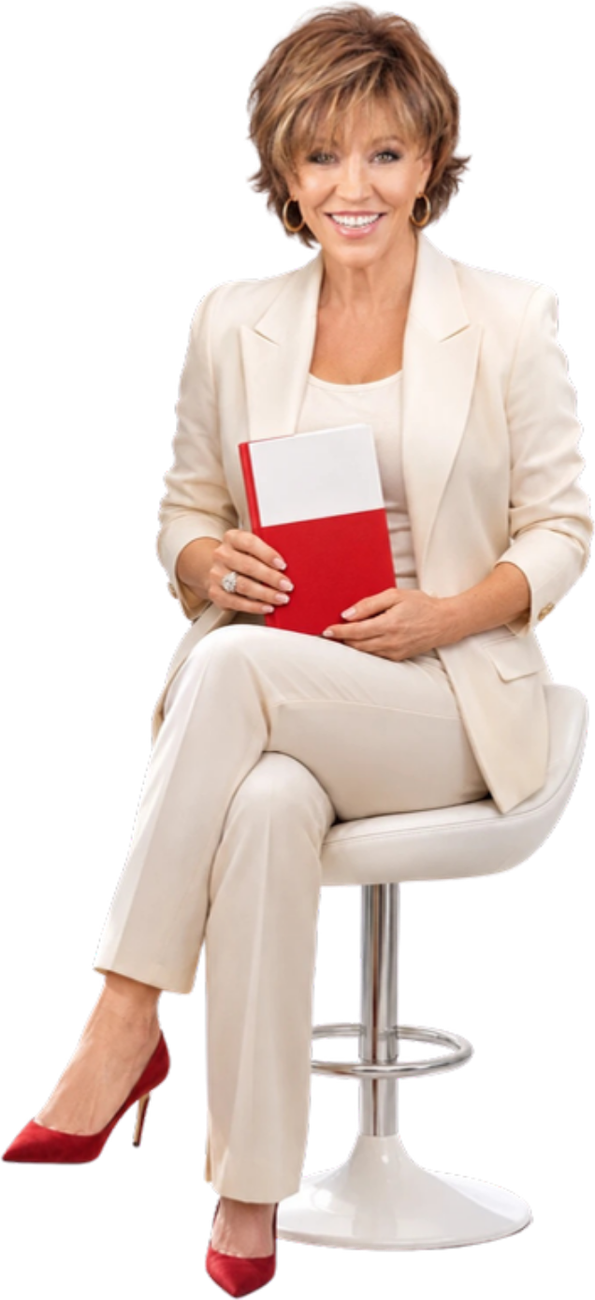
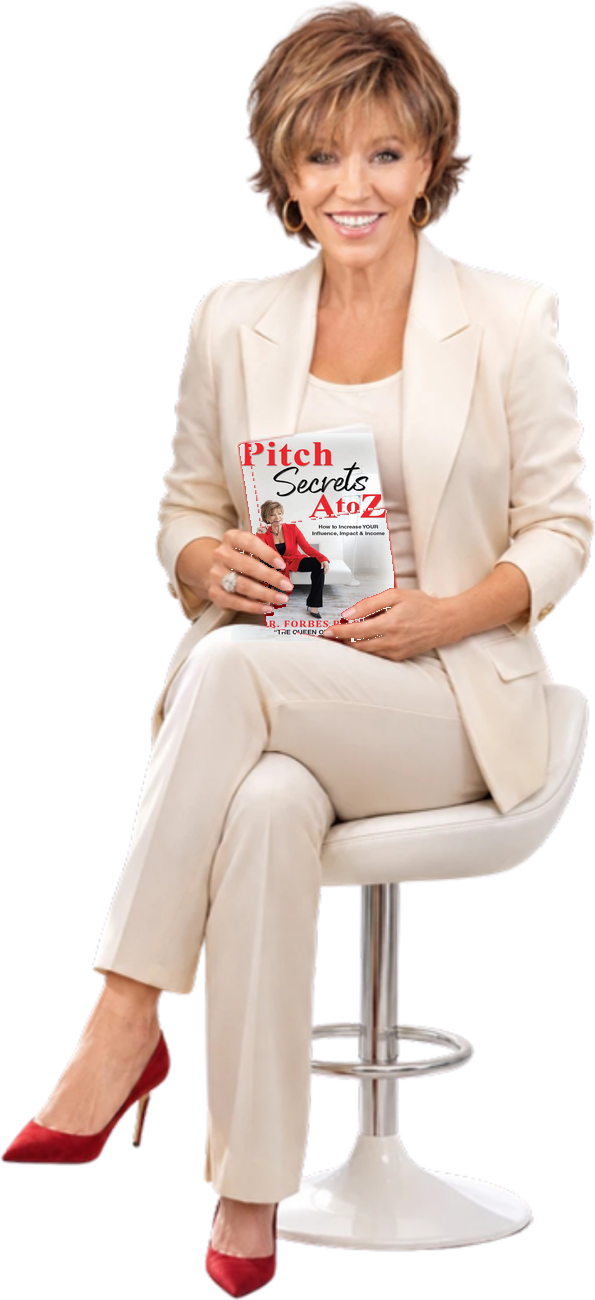
Speaker page: Forbes holds the real Pitch Secrets cover in the author photo; pointing photo back in the outcomes ring (sharpened 2x)

Changed region(s): [[0.3933, 0.3385, 0.6655, 0.4923]]

diff --git a/docs/speak.html b/docs/speak.html
@@ -5,7 +5,7 @@
 <meta name="viewport" content="width=device-width, initial-scale=1">
 <title>Forbes Riley | Keynote Speaker &amp; The Queen of Pitch</title>
 <meta name="description" content="Book Dr. Forbes Riley, the $2.5 billion host, 2X TEDx speaker and creator of SpinGym. Keynotes that leave your audience with a skill, not a feeling.">
-<link rel="icon" type="image/png" href="img/favicon.png?v=277112">
+<link rel="icon" type="image/png" href="img/favicon.png?v=277533">
 <link rel="preconnect" href="https://fonts.googleapis.com">
 <link rel="preconnect" href="https://fonts.gstatic.com" crossorigin>
 <link href="https://fonts.googleapis.com/css2?family=Poppins:ital,wght@0,300;0,400;0,500;0,600;0,700;0,800;1,400&family=Allura&display=swap" rel="stylesheet">
@@ -52,7 +52,7 @@ h1,h2,h3{font-family:var(--display);font-weight:800;letter-spacing:-.01em;margin
 .cut{position:relative;display:block;filter:drop-shadow(0 30px 40px rgba(0,0,0,.55));will-change:transform}
 .glow{position:absolute;inset:auto;border-radius:50%;pointer-events:none;filter:blur(30px);opacity:.7;aspect-ratio:1;height:auto!important}
 .glow.gold{background:radial-gradient(circle,rgba(232,217,160,.55),rgba(201,154,58,.25) 45%,transparent 70%)}
-.dust{position:absolute;pointer-events:none;background:url(img/cut/gold-dust.png?v=277112) center/contain no-repeat;opacity:.9;mix-blend-mode:screen}
+.dust{position:absolute;pointer-events:none;background:url(img/cut/gold-dust.png?v=277533) center/contain no-repeat;opacity:.9;mix-blend-mode:screen}
 .ring{position:absolute;border:1.5px solid rgba(232,217,160,.45);border-radius:50%;pointer-events:none;animation:drift 14s ease-in-out infinite}
 .ring.b{animation-duration:19s;animation-direction:reverse;border-style:dashed}
 @keyframes drift{0%,100%{transform:translate(0,0) rotate(0)}50%{transform:translate(12px,-18px) rotate(40deg)}}
@@ -136,7 +136,7 @@ h1,h2,h3{font-family:var(--display);font-weight:800;letter-spacing:-.01em;margin
 .seen ul{list-style:none;margin:0;padding:0;display:flex;gap:28px;flex-wrap:wrap;justify-content:center}
 .seen li{font-family:var(--display);font-weight:700;font-size:15px;letter-spacing:.06em;color:#2a1a28;opacity:.6}
 .cta{background:linear-gradient(135deg,#1a0c2e,#6b1f52 60%,#8a2a68);padding:56px 0;position:relative;overflow:hidden}
-.cta:before{content:"";position:absolute;inset:0;background:url(img/cut/gold-dust.png?v=277112) right center/700px no-repeat;opacity:.5;mix-blend-mode:screen}
+.cta:before{content:"";position:absolute;inset:0;background:url(img/cut/gold-dust.png?v=277533) right center/700px no-repeat;opacity:.5;mix-blend-mode:screen}
 .ctabox{position:relative;display:grid;grid-template-columns:1.3fr .7fr;gap:40px;align-items:center;border:1px solid rgba(240,213,122,.35);border-radius:16px;padding:40px 46px;background:rgba(6,6,14,.35);backdrop-filter:blur(6px)}
 .ctabox h2{font-size:clamp(26px,3.2vw,40px);line-height:1.1;color:#fff;margin:8px 0 12px;text-transform:none}
 .ctabox p{margin:0;color:#e9dff0;font-size:17px}
@@ -258,7 +258,7 @@ h1,h2,h3{font-family:var(--display);font-weight:800;letter-spacing:-.01em;margin
 .arc svg{position:absolute;inset:0;width:100%;height:100%;z-index:1;pointer-events:none}
 .arc svg .arcpath{fill:none;stroke:#2a0f2a;stroke-width:3}
 .arc .arcsplash{position:absolute;left:50%;bottom:-120px;width:720px;max-width:none;transform:translateX(-50%);z-index:1;opacity:.75;pointer-events:none}
-.arc .cut{position:absolute;left:50%;bottom:-10px;transform:translateX(-50%);height:470px;width:auto;max-width:100%;object-fit:contain;object-position:bottom;z-index:2;filter:drop-shadow(0 20px 30px rgba(0,0,0,.2))}
+.arc .cut{position:absolute;left:50%;bottom:0;transform:translateX(-50%);height:440px;width:auto;max-width:100%;object-fit:contain;object-position:bottom;z-index:2;filter:drop-shadow(0 20px 30px rgba(0,0,0,.2))}
 .oc{position:absolute;width:150px;height:150px;margin:-75px 0 0 -75px;border-radius:50%;border:12px solid #f3eadc;background:#3b1030;color:#e9dcc4;display:grid;place-items:center;cursor:pointer;z-index:3;padding:0;transition:background .35s,transform .35s,border-color .35s,box-shadow .35s}
 .oc svg{width:66px;height:66px;fill:none;stroke:currentColor;stroke-width:2.2;stroke-linecap:round;stroke-linejoin:round;transition:transform .35s}
 .oc:hover,.oc.on{background:linear-gradient(135deg,#f6e3a1,#d4a73c);color:#2a0f2a;border-color:#fff3d6;transform:scale(1.06);box-shadow:0 18px 40px rgba(212,167,60,.35)}
@@ -279,7 +279,7 @@ h1,h2,h3{font-family:var(--display);font-weight:800;letter-spacing:-.01em;margin
 
 /* formula */
 .framework{background:linear-gradient(180deg,#07061a,#6b1f52);position:relative;overflow:hidden}
-.framework:before{content:"";position:absolute;inset:0;background:url(img/h-stage-purple.jpg?v=277112) center/cover;opacity:.14;filter:grayscale(1)}
+.framework:before{content:"";position:absolute;inset:0;background:url(img/h-stage-purple.jpg?v=277533) center/cover;opacity:.14;filter:grayscale(1)}
 .framework .wrap{position:relative}
 .pillars{display:grid;grid-template-columns:repeat(3,1fr);gap:26px;margin:0 auto;max-width:1000px}
 .pillar{position:relative;text-align:center;padding:48px 26px 36px;border:1px solid rgba(232,217,160,.25);border-radius:var(--r);background:rgba(11,11,11,.72);overflow:hidden;cursor:pointer;transition:border-color .4s,transform .4s}
@@ -530,11 +530,11 @@ footer a{color:var(--gold);text-decoration:none}
 </head>
 <body>
 <div id="progress"></div>
-<div class="grain" aria-hidden="true"></div><div class="pill" id="pill"><img src="img/helms-headshot.jpg?v=277112" alt=""><span class="t">Bring Forbes to your stage</span><a class="btn btn-gold" href="#book">Book Forbes</a></div>
+<div class="grain" aria-hidden="true"></div><div class="pill" id="pill"><img src="img/helms-headshot.jpg?v=277533" alt=""><span class="t">Bring Forbes to your stage</span><a class="btn btn-gold" href="#book">Book Forbes</a></div>
 <canvas id="confetti"></canvas>
 <nav class="nav" id="nav">
   <div class="wrap">
-    <a href="#top"><img src="img/logo-signature-gold.png?v=277112" alt="Forbes Riley"></a>
+    <a href="#top"><img src="img/logo-signature-gold.png?v=277533" alt="Forbes Riley"></a>
     <ul>
       <li><a href="#story">About</a></li>
       <li><a href="#speaking">Speaking</a></li>
@@ -563,7 +563,7 @@ footer a{color:var(--gold);text-decoration:none}
     </div>
     <div class="stage" data-parallax="0.08">
       <div class="glow gold"></div>
-      <img class="cut" src="img/cut/az-arms-hd.png?v=277112" alt="Forbes Riley, arms open">
+      <img class="cut" src="img/cut/az-arms-hd.png?v=277533" alt="Forbes Riley, arms open">
     </div>
   </div>
   <div class="floor"></div>
@@ -588,7 +588,7 @@ footer a{color:var(--gold);text-decoration:none}
 <section class="section reel dark" id="reel">
   <div class="wrap grid">
     <div class="hs rv rv-l" data-parallax="0.04">
-      <img src="img/helms-headshot.jpg?v=277112" alt="Forbes Riley headshot">
+      <img src="img/helms-headshot.jpg?v=277533" alt="Forbes Riley headshot">
     </div>
     <div>
       <p class="eyebrow rv">Meet Forbes Riley</p>
@@ -644,7 +644,7 @@ footer a{color:var(--gold);text-decoration:none}
 <section class="split">
   <div class="wrap grid">
     <div class="fig rv rv-l" data-parallax="0.06">
-      <img class="cut" src="img/cut/black-crossed.png?v=277112" alt="Forbes Riley">
+      <img class="cut" src="img/cut/black-crossed.png?v=277533" alt="Forbes Riley">
     </div>
     <div>
       <p class="rv">It's not something I read in a book. It's something I lived, on live television, with a clock running and a sales number on the screen. It became the foundation of everything I do: every stage, every boardroom, every founder who sits across from me carrying the exact fear I once carried.</p>
@@ -658,23 +658,23 @@ footer a{color:var(--gold);text-decoration:none}
 
 <section class="gallery" aria-label="Forbes on stage">
   <div class="track" id="gal">
-    <figure><img src="img/hero-stage-blue.jpg?v=277112" alt=""><figcaption>Keynote</figcaption></figure>
-    <figure><img src="img/event-ffl-stage.jpg?v=277112" alt=""><figcaption>Forbes Factor Live</figcaption></figure>
-    <figure><img src="img/h-10x-stage.jpg?v=277112" alt=""><figcaption>10X Growth Con</figcaption></figure>
-    <figure><img src="img/event-audience.jpg?v=277112" alt=""><figcaption>Live audience</figcaption></figure>
-    <figure><img src="img/friends-les-brown.jpg?v=277112" alt=""><figcaption>With Les Brown</figcaption></figure>
-    <figure><img src="img/h-stage-purple.jpg?v=277112" alt=""><figcaption>On stage</figcaption></figure>
-    <figure><img src="img/event-garden-crowd.jpg?v=277112" alt=""><figcaption>Private event</figcaption></figure>
-    <figure><img src="img/friends-kevin-harrington-panel.jpg?v=277112" alt=""><figcaption>Panel with Kevin Harrington</figcaption></figure>
-    <figure><img src="img/spingym-hsn-set.jpg?v=277112" alt=""><figcaption>Live on HSN</figcaption></figure>
-    <figure><img src="img/event-speaking-hand.jpg?v=277112" alt=""><figcaption>Speaking</figcaption></figure>
-    <figure><img src="img/friends-george-foreman.jpg?v=277112" alt=""><figcaption>With George Foreman</figcaption></figure>
-    <figure><img src="img/h-redcarpet.jpg?v=277112" alt=""><figcaption>Red carpet</figcaption></figure>
+    <figure><img src="img/hero-stage-blue.jpg?v=277533" alt=""><figcaption>Keynote</figcaption></figure>
+    <figure><img src="img/event-ffl-stage.jpg?v=277533" alt=""><figcaption>Forbes Factor Live</figcaption></figure>
+    <figure><img src="img/h-10x-stage.jpg?v=277533" alt=""><figcaption>10X Growth Con</figcaption></figure>
+    <figure><img src="img/event-audience.jpg?v=277533" alt=""><figcaption>Live audience</figcaption></figure>
+    <figure><img src="img/friends-les-brown.jpg?v=277533" alt=""><figcaption>With Les Brown</figcaption></figure>
+    <figure><img src="img/h-stage-purple.jpg?v=277533" alt=""><figcaption>On stage</figcaption></figure>
+    <figure><img src="img/event-garden-crowd.jpg?v=277533" alt=""><figcaption>Private event</figcaption></figure>
+    <figure><img src="img/friends-kevin-harrington-panel.jpg?v=277533" alt=""><figcaption>Panel with Kevin Harrington</figcaption></figure>
+    <figure><img src="img/spingym-hsn-set.jpg?v=277533" alt=""><figcaption>Live on HSN</figcaption></figure>
+    <figure><img src="img/event-speaking-hand.jpg?v=277533" alt=""><figcaption>Speaking</figcaption></figure>
+    <figure><img src="img/friends-george-foreman.jpg?v=277533" alt=""><figcaption>With George Foreman</figcaption></figure>
+    <figure><img src="img/h-redcarpet.jpg?v=277533" alt=""><figcaption>Red carpet</figcaption></figure>
   </div>
 </section>
 
 <section class="section talks dark" id="speaking">
-  <img class="peek" src="img/cut/black-crossed.png?v=277112" alt="">
+  <img class="peek" src="img/cut/black-crossed.png?v=277533" alt="">
   <div class="wrap">
     <div class="section-head">
       <p class="eyebrow rv">Keynotes</p>
@@ -715,7 +715,7 @@ footer a{color:var(--gold);text-decoration:none}
       <svg viewBox="0 0 1180 800" preserveAspectRatio="none"><path class="arcpath" d="M330 500 C 350 330, 440 160, 590 160 C 740 160, 830 330, 850 500"/></svg>
       <button class="oc oc1" data-i="0" style="left:330.0px;top:500.0px" aria-label="Outcome 1: A 7-second hook"><svg viewBox="0 0 64 64"><circle cx="32" cy="32" r="22"/><circle cx="32" cy="32" r="12"/><circle cx="32" cy="32" r="3"/><path d="M32 4v8M32 52v8M4 32h8M52 32h8"/></svg></button><button class="oc oc2" data-i="1" style="left:411.2px;top:266.2px" aria-label="Outcome 2: Their WHY in one sentence"><svg viewBox="0 0 64 64"><path d="M12 14h40a4 4 0 0 1 4 4v22a4 4 0 0 1-4 4H30l-12 10V44h-6a4 4 0 0 1-4-4V18a4 4 0 0 1 4-4z"/><path d="M32 22v10M32 36v2"/></svg></button><button class="oc oc3" data-i="2" style="left:590.0px;top:160.0px" aria-label="Outcome 3: Confidence as posture"><svg viewBox="0 0 64 64"><circle cx="32" cy="13" r="7"/><path d="M14 44c0-14 36-14 36 0"/><path d="M32 24v14"/><path d="M20 60c2-10 22-10 24 0"/></svg></button><button class="oc oc4" data-i="3" style="left:768.8px;top:266.2px" aria-label="Outcome 4: No more sounding salesy"><svg viewBox="0 0 64 64"><path d="M8 40l10-10 8 8 10-10 8 8 12-12"/><path d="M44 24h12v12"/><path d="M6 56h52"/></svg></button><button class="oc oc5" data-i="4" style="left:850.0px;top:500.0px" aria-label="Outcome 5: Reps before they leave"><svg viewBox="0 0 64 64"><path d="M14 26a18 18 0 0 1 32-8l6 6"/><path d="M52 12v12H40"/><path d="M50 38a18 18 0 0 1-32 8l-6-6"/><path d="M12 52V40h12"/></svg></button>
       <div class="ot ot1" data-i="0"><div class="k">Outcome 1</div><p><b>A 7-second hook</b> Every person leaves with an opening line they can say tonight, built in the room with Forbes coaching them live. Not in a workbook they never open.</p><a class="bk" href="#book">Book this for my room</a></div><div class="ot ot2" data-i="1"><div class="k">Outcome 2</div><p><b>Their WHY in one sentence</b> Nobody buys the product. They buy the reason. Forbes gets each person to say theirs out loud and does not move on until it lands.</p><a class="bk" href="#book">Book this for my room</a></div><div class="ot ot3" data-i="2"><div class="k">Outcome 3</div><p><b>Confidence as posture</b> Feet. Shoulders. Breath. Then speak. Posture first, feeling second. Confidence you can do on purpose, even on a screen.</p><a class="bk" href="#book">Book this for my room</a></div><div class="ot ot4" data-i="3"><div class="k">Outcome 4</div><p><b>No more sounding salesy</b> The exact shift from pushing to inviting. Your people stop apologising for the ask and start enrolling.</p><a class="bk" href="#book">Book this for my room</a></div><div class="ot ot5" data-i="4"><div class="k">Outcome 5</div><p><b>Reps before they leave</b> A pitch is a performance. The room rehearses it out loud, live, with coaching, so it belongs to them before the doors open.</p><a class="bk" href="#book">Book this for my room</a></div>
-      <img class="cut rv rv-s d2" src="img/cut/emerald-top.png?v=277112" alt="Forbes Riley, arms open">
+      <img class="cut rv rv-s d2" src="img/cut/pointing-2x.png?v=277533" alt="Forbes Riley pointing up">
     </div>
     <div class="outcomes-m">
       <div class="node rv"><div class="dot">1</div><div><div class="k">Outcome 1</div><h3>A 7-second hook</h3><p>An opening line they can say tonight, built in the room.</p></div></div>
@@ -724,7 +724,7 @@ footer a{color:var(--gold);text-decoration:none}
       <div class="node rv"><div class="dot">4</div><div><div class="k">Outcome 4</div><h3>No more sounding salesy</h3><p>From pushing to inviting.</p></div></div>
       <div class="node rv"><div class="dot">5</div><div><div class="k">Outcome 5</div><h3>Reps before they leave</h3><p>Rehearsed live, with coaching, so it's theirs.</p></div></div>
     </div>
-    <img class="mcut" src="img/cut/emerald-top.png?v=277112" alt="">
+    <img class="mcut" src="img/cut/pointing-2x.png?v=277533" alt="">
   </div>
 </section>
 
@@ -735,7 +735,7 @@ footer a{color:var(--gold);text-decoration:none}
       <h2 class="rv d1 chars">The P.I.T.C.H. behind everything Forbes teaches</h2>
       <p class="rv d2">Five letters your audience will still remember on Monday. Tap one.</p>
     </div>
-    <img class="peek-r" src="img/cut/az-shh.png?v=277112" alt="">
+    <img class="peek-r" src="img/cut/az-shh.png?v=277533" alt="">
     <div class="acro rv" id="acro">
       <div class="letters">
         <button class="lt on" data-i="0"><span class="big">P</span><span class="w">Presence</span></button>
@@ -767,10 +767,10 @@ footer a{color:var(--gold);text-decoration:none}
         <button class="on" data-f="0">Keynote</button><button data-f="1">Workshop</button><button data-f="2">Emcee &amp; host</button><button data-f="3">Virtual</button>
       </div>
       <div class="fmt-panels">
-        <div class="fmt-panel on"><div class="fmt-copy"><h3>The keynote</h3><p>45 to 90 minutes. Forbes' story, one of her five keynotes tailored to your audience, and a live pitch moment where your people say it out loud. Built for openings, closings and general sessions from 100 to 10,000.</p><ul><li>Pre-event call to tailor the talk to your room</li><li>Live hot-seat coaching from the stage</li><li>A takeaway every attendee can use the next morning</li></ul><a class="btn btn-gold" href="#book">Check keynote availability</a></div><div class="fmt-pic"><img src="img/h-10x-stage.jpg?v=277112" alt="Forbes keynoting"></div></div>
-        <div class="fmt-panel"><div class="fmt-copy"><h3>Workshop or pitch intensive</h3><p>Half day to full day. Everyone builds and rehearses their pitch with Forbes coaching in real time. Best for sales teams, founders' cohorts and leadership groups who need the skill, not just the spark.</p><ul><li>Small-group reps with live feedback</li><li>Templates your team keeps</li><li>Optional follow-up Pitch Practice Pods</li></ul><a class="btn btn-gold" href="#book">Ask about a workshop</a></div><div class="fmt-pic"><img src="img/event-ffl-stage.jpg?v=277112" alt="Forbes leading a workshop"></div></div>
-        <div class="fmt-panel"><div class="fmt-copy"><h3>Emcee and live host</h3><p>The host of two national talk shows and twenty years of live home shopping running your event from the stage. Energy, timing, transitions, and the room never dips.</p><ul><li>Multi-day conferences and galas</li><li>Award shows and product launches</li><li>Panel moderation</li></ul><a class="btn btn-gold" href="#book">Ask about hosting</a></div><div class="fmt-pic"><img src="img/friends-kevin-harrington-panel.jpg?v=277112" alt="Forbes hosting a panel"></div></div>
-        <div class="fmt-panel"><div class="fmt-copy"><h3>Virtual keynote</h3><p>Forbes broadcasts from her own studio, Forbes Riley Studios in St. Petersburg, Florida. Camera-ready, interactive, and built to hold attention on a screen the way she held it on live TV.</p><ul><li>Broadcast-quality studio, not a laptop webcam</li><li>Live chat hot seats</li><li>Recordings available for your team</li></ul><a class="btn btn-gold" href="#book">Ask about virtual</a></div><div class="fmt-pic"><img src="img/portrait-teaching.jpg?v=277112" alt="Forbes teaching from the studio"></div></div>
+        <div class="fmt-panel on"><div class="fmt-copy"><h3>The keynote</h3><p>45 to 90 minutes. Forbes' story, one of her five keynotes tailored to your audience, and a live pitch moment where your people say it out loud. Built for openings, closings and general sessions from 100 to 10,000.</p><ul><li>Pre-event call to tailor the talk to your room</li><li>Live hot-seat coaching from the stage</li><li>A takeaway every attendee can use the next morning</li></ul><a class="btn btn-gold" href="#book">Check keynote availability</a></div><div class="fmt-pic"><img src="img/h-10x-stage.jpg?v=277533" alt="Forbes keynoting"></div></div>
+        <div class="fmt-panel"><div class="fmt-copy"><h3>Workshop or pitch intensive</h3><p>Half day to full day. Everyone builds and rehearses their pitch with Forbes coaching in real time. Best for sales teams, founders' cohorts and leadership groups who need the skill, not just the spark.</p><ul><li>Small-group reps with live feedback</li><li>Templates your team keeps</li><li>Optional follow-up Pitch Practice Pods</li></ul><a class="btn btn-gold" href="#book">Ask about a workshop</a></div><div class="fmt-pic"><img src="img/event-ffl-stage.jpg?v=277533" alt="Forbes leading a workshop"></div></div>
+        <div class="fmt-panel"><div class="fmt-copy"><h3>Emcee and live host</h3><p>The host of two national talk shows and twenty years of live home shopping running your event from the stage. Energy, timing, transitions, and the room never dips.</p><ul><li>Multi-day conferences and galas</li><li>Award shows and product launches</li><li>Panel moderation</li></ul><a class="btn btn-gold" href="#book">Ask about hosting</a></div><div class="fmt-pic"><img src="img/friends-kevin-harrington-panel.jpg?v=277533" alt="Forbes hosting a panel"></div></div>
+        <div class="fmt-panel"><div class="fmt-copy"><h3>Virtual keynote</h3><p>Forbes broadcasts from her own studio, Forbes Riley Studios in St. Petersburg, Florida. Camera-ready, interactive, and built to hold attention on a screen the way she held it on live TV.</p><ul><li>Broadcast-quality studio, not a laptop webcam</li><li>Live chat hot seats</li><li>Recordings available for your team</li></ul><a class="btn btn-gold" href="#book">Ask about virtual</a></div><div class="fmt-pic"><img src="img/portrait-teaching.jpg?v=277533" alt="Forbes teaching from the studio"></div></div>
       </div>
     </div>
     <p class="note rv">Not sure which fits? Tell us the date and the room and Forbes' team will recommend one.</p>
@@ -811,10 +811,10 @@ footer a{color:var(--gold);text-decoration:none}
 <section class="section about">
   <div class="wrap grid">
     <div class="fig rv rv-l" data-parallax="0.06">
-      <img class="ghost l" src="img/cut/mic.png?v=277112" alt="">
-      <img class="ghost r" src="img/cut/white-crossed.png?v=277112" alt="">
+      <img class="ghost l" src="img/cut/mic.png?v=277533" alt="">
+      <img class="ghost r" src="img/cut/white-crossed.png?v=277533" alt="">
       <div class="bigname">FORBES<a class="pv" href="#reel" data-yt="t52E3asvjsw"><i class="playo"><i></i></i><span class="script">play video</span></a></div>
-      <img class="cut" src="img/cut/az-chin.png?v=277112" alt="Forbes Riley">
+      <img class="cut" src="img/cut/az-chin.png?v=277533" alt="Forbes Riley">
     </div>
     <div>
       <p class="eyebrow rv">Meet Forbes Riley</p>
@@ -830,8 +830,7 @@ footer a{color:var(--gold);text-decoration:none}
 <section class="section author" id="author">
   <div class="wrap grid">
     <div class="bk-fig rv rv-l">
-      <img class="authorcut" src="img/cut/ai-author.png?v=277112" alt="Forbes Riley holding her book">
-      <img class="cover" src="img/book-cover.jpg?v=277112" alt="Pitch Secrets A to Z by Forbes Riley">
+      <img class="authorcut" src="img/cut/ai-author.png?v=277533" alt="Forbes Riley holding her book">
     </div>
     <div>
       <p class="eyebrow rv">Bestselling author</p>
@@ -858,8 +857,8 @@ footer a{color:var(--gold);text-decoration:none}
 </section>
 
 <section class="section free" id="free">
-  <img class="cutl" src="img/cut/az-laugh.png?v=277112" alt="">
-  <img class="cutr" src="img/cut/az-half.png?v=277112" alt="">
+  <img class="cutl" src="img/cut/az-laugh.png?v=277533" alt="">
+  <img class="cutr" src="img/cut/az-half.png?v=277533" alt="">
   <div class="wrap">
     <p class="eyebrow rv" style="color:#5a4210">Start here. It's free.</p>
     <h2 class="rv d1">Before you book, come to the masterclass</h2>
@@ -901,7 +900,7 @@ footer a{color:var(--gold);text-decoration:none}
 
 <footer>
   <div class="wrap">
-    <img src="img/logo-signature-gold.png?v=277112" alt="Forbes Riley">
+    <img src="img/logo-signature-gold.png?v=277533" alt="Forbes Riley">
     <div class="line">Teaching the skill that built everything.</div>
     <div>Instagram: <a href="https://instagram.com/forbes_riley" target="_blank" rel="noopener">@forbes_riley</a> &middot; <a href="index.html">forbesriley.com</a> &middot; <a href="mailto:support@teamforbesriley.com">support@teamforbesriley.com</a></div>
     <div style="margin-top:12px">&copy; 2026 Forbes Riley. All rights reserved.</div>

diff --git a/src/standalone/speak.html b/src/standalone/speak.html
@@ -258,7 +258,7 @@ h1,h2,h3{font-family:var(--display);font-weight:800;letter-spacing:-.01em;margin
 .arc svg{position:absolute;inset:0;width:100%;height:100%;z-index:1;pointer-events:none}
 .arc svg .arcpath{fill:none;stroke:#2a0f2a;stroke-width:3}
 .arc .arcsplash{position:absolute;left:50%;bottom:-120px;width:720px;max-width:none;transform:translateX(-50%);z-index:1;opacity:.75;pointer-events:none}
-.arc .cut{position:absolute;left:50%;bottom:-10px;transform:translateX(-50%);height:470px;width:auto;max-width:100%;object-fit:contain;object-position:bottom;z-index:2;filter:drop-shadow(0 20px 30px rgba(0,0,0,.2))}
+.arc .cut{position:absolute;left:50%;bottom:0;transform:translateX(-50%);height:440px;width:auto;max-width:100%;object-fit:contain;object-position:bottom;z-index:2;filter:drop-shadow(0 20px 30px rgba(0,0,0,.2))}
 .oc{position:absolute;width:150px;height:150px;margin:-75px 0 0 -75px;border-radius:50%;border:12px solid #f3eadc;background:#3b1030;color:#e9dcc4;display:grid;place-items:center;cursor:pointer;z-index:3;padding:0;transition:background .35s,transform .35s,border-color .35s,box-shadow .35s}
 .oc svg{width:66px;height:66px;fill:none;stroke:currentColor;stroke-width:2.2;stroke-linecap:round;stroke-linejoin:round;transition:transform .35s}
 .oc:hover,.oc.on{background:linear-gradient(135deg,#f6e3a1,#d4a73c);color:#2a0f2a;border-color:#fff3d6;transform:scale(1.06);box-shadow:0 18px 40px rgba(212,167,60,.35)}
@@ -715,7 +715,7 @@ footer a{color:var(--gold);text-decoration:none}
       <svg viewBox="0 0 1180 800" preserveAspectRatio="none"><path class="arcpath" d="M330 500 C 350 330, 440 160, 590 160 C 740 160, 830 330, 850 500"/></svg>
       <button class="oc oc1" data-i="0" style="left:330.0px;top:500.0px" aria-label="Outcome 1: A 7-second hook"><svg viewBox="0 0 64 64"><circle cx="32" cy="32" r="22"/><circle cx="32" cy="32" r="12"/><circle cx="32" cy="32" r="3"/><path d="M32 4v8M32 52v8M4 32h8M52 32h8"/></svg></button><button class="oc oc2" data-i="1" style="left:411.2px;top:266.2px" aria-label="Outcome 2: Their WHY in one sentence"><svg viewBox="0 0 64 64"><path d="M12 14h40a4 4 0 0 1 4 4v22a4 4 0 0 1-4 4H30l-12 10V44h-6a4 4 0 0 1-4-4V18a4 4 0 0 1 4-4z"/><path d="M32 22v10M32 36v2"/></svg></button><button class="oc oc3" data-i="2" style="left:590.0px;top:160.0px" aria-label="Outcome 3: Confidence as posture"><svg viewBox="0 0 64 64"><circle cx="32" cy="13" r="7"/><path d="M14 44c0-14 36-14 36 0"/><path d="M32 24v14"/><path d="M20 60c2-10 22-10 24 0"/></svg></button><button class="oc oc4" data-i="3" style="left:768.8px;top:266.2px" aria-label="Outcome 4: No more sounding salesy"><svg viewBox="0 0 64 64"><path d="M8 40l10-10 8 8 10-10 8 8 12-12"/><path d="M44 24h12v12"/><path d="M6 56h52"/></svg></button><button class="oc oc5" data-i="4" style="left:850.0px;top:500.0px" aria-label="Outcome 5: Reps before they leave"><svg viewBox="0 0 64 64"><path d="M14 26a18 18 0 0 1 32-8l6 6"/><path d="M52 12v12H40"/><path d="M50 38a18 18 0 0 1-32 8l-6-6"/><path d="M12 52V40h12"/></svg></button>
       <div class="ot ot1" data-i="0"><div class="k">Outcome 1</div><p><b>A 7-second hook</b> Every person leaves with an opening line they can say tonight, built in the room with Forbes coaching them live. Not in a workbook they never open.</p><a class="bk" href="#book">Book this for my room</a></div><div class="ot ot2" data-i="1"><div class="k">Outcome 2</div><p><b>Their WHY in one sentence</b> Nobody buys the product. They buy the reason. Forbes gets each person to say theirs out loud and does not move on until it lands.</p><a class="bk" href="#book">Book this for my room</a></div><div class="ot ot3" data-i="2"><div class="k">Outcome 3</div><p><b>Confidence as posture</b> Feet. Shoulders. Breath. Then speak. Posture first, feeling second. Confidence you can do on purpose, even on a screen.</p><a class="bk" href="#book">Book this for my room</a></div><div class="ot ot4" data-i="3"><div class="k">Outcome 4</div><p><b>No more sounding salesy</b> The exact shift from pushing to inviting. Your people stop apologising for the ask and start enrolling.</p><a class="bk" href="#book">Book this for my room</a></div><div class="ot ot5" data-i="4"><div class="k">Outcome 5</div><p><b>Reps before they leave</b> A pitch is a performance. The room rehearses it out loud, live, with coaching, so it belongs to them before the doors open.</p><a class="bk" href="#book">Book this for my room</a></div>
-      <img class="cut rv rv-s d2" src="img/cut/emerald-top.png" alt="Forbes Riley, arms open">
+      <img class="cut rv rv-s d2" src="img/cut/pointing-2x.png" alt="Forbes Riley pointing up">
     </div>
     <div class="outcomes-m">
       <div class="node rv"><div class="dot">1</div><div><div class="k">Outcome 1</div><h3>A 7-second hook</h3><p>An opening line they can say tonight, built in the room.</p></div></div>
@@ -724,7 +724,7 @@ footer a{color:var(--gold);text-decoration:none}
       <div class="node rv"><div class="dot">4</div><div><div class="k">Outcome 4</div><h3>No more sounding salesy</h3><p>From pushing to inviting.</p></div></div>
       <div class="node rv"><div class="dot">5</div><div><div class="k">Outcome 5</div><h3>Reps before they leave</h3><p>Rehearsed live, with coaching, so it's theirs.</p></div></div>
     </div>
-    <img class="mcut" src="img/cut/emerald-top.png" alt="">
+    <img class="mcut" src="img/cut/pointing-2x.png" alt="">
   </div>
 </section>
 
@@ -831,7 +831,6 @@ footer a{color:var(--gold);text-decoration:none}
   <div class="wrap grid">
     <div class="bk-fig rv rv-l">
       <img class="authorcut" src="img/cut/ai-author.png" alt="Forbes Riley holding her book">
-      <img class="cover" src="img/book-cover.jpg" alt="Pitch Secrets A to Z by Forbes Riley">
     </div>
     <div>
       <p class="eyebrow rv">Bestselling author</p>
